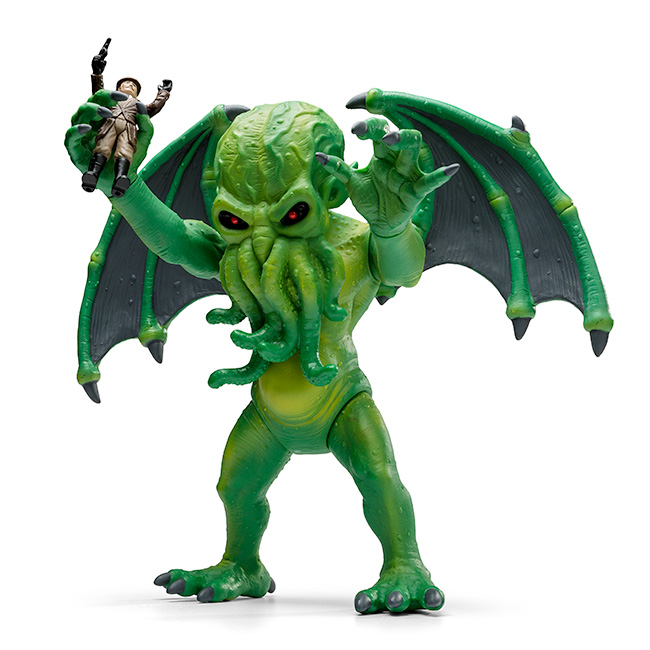
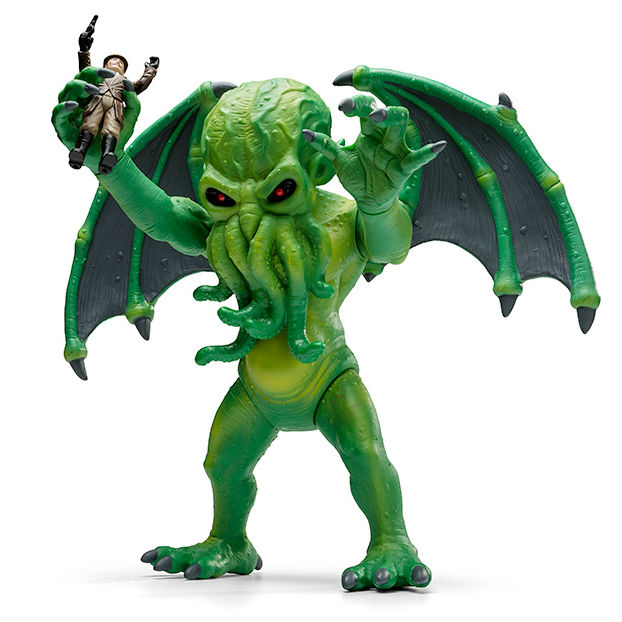
changed imgs for visual symmetry and commented out non-essential code in picture.js

Changed region(s): [[0.0611, 0.0305, 0.9775, 0.9775]]

diff --git a/js/picture.js b/js/picture.js
@@ -23,9 +23,9 @@ var imageObject = [];
 var globalClicks = 0;
 
 
-var randomValue1 = 0;
-var randomValue2 = 0;
-var randomValue3 = 0;
+// var randomValue1 = 0;
+// var randomValue2 = 0;
+// var randomValue3 = 0;
 
 var Product = function (productName, filePath) {
   this.productName = productName;
@@ -40,7 +40,7 @@ var Product = function (productName, filePath) {
     console.log(this.productName + ' now has ' + this.percentClicked + ' percent');
     }
 }
-
+//creates all of the objects and pushes them to the imageObject array
 var  createObject = function() {
   for (var i = 0; i < images.length; i++) {
     imageObject.push(new Product(images[i][0], images[i][1]));
@@ -51,13 +51,12 @@ createObject();
 function getRandomNum() {
     return Math.floor(Math.random() * (images.length));
 }
-
-
+//might want to move these to the top of the js file
 var randomValue1 = getRandomNum();
 var randomValue2 = getRandomNum();
 var randomValue3 = getRandomNum();
 
-var ensureRandom = function() {
+function ensureRandom ()  {
 do {
   randomValue1 = getRandomNum();
 }
@@ -68,28 +67,27 @@ do {
 }
 while(randomValue2 === randomValue3 || randomValue3 === randomValue1);
 }
+
 ensureRandom();
 
-console.log(imageObject[randomValue1].filePath);
-//
+// console.log(imageObject[randomValue1].filePath);
+//append the image to the articles
 var imgOne = document.getElementById('imgOne');
 imgOne.innerHTML = '<img src=' + imageObject[randomValue1].filePath + '>';
-// // // create the rest of the images
+
 var imgTwo = document.getElementById('imgTwo');
 imgTwo.innerHTML = "<img src=" + imageObject[randomValue2].filePath + ">";
 
 var imgThree = document.getElementById('imgThree');
 imgThree.innerHTML = "<img src=" + imageObject[randomValue3].filePath + ">";
-// //
-//
-// create event listender
+
+// create event listender for 1st click
 imgOne.addEventListener('click', clickOnFirst);
-//
-//
-// create an event handler
+
+// create an event handler for 1st click
 function clickOnFirst () {
   globalClicks += 1;
-  console.log(globalClicks);
+  // console.log(globalClicks);
   //see how often an image is displayed
   imageObject[randomValue1].timesDisplayed += 1;
   imageObject[randomValue2].timesDisplayed += 1;
@@ -104,27 +102,28 @@ function clickOnFirst () {
   randomValue1 = getRandomNum();
   randomValue2 = getRandomNum();
   randomValue3 = getRandomNum();
-  do {
-    randomValue1 = getRandomNum();
-  }
-  while(randomValue1 === randomValue2);
-
-  do {
-      randomValue3 = getRandomNum();
-  }
-  while(randomValue2 === randomValue3 || randomValue3 === randomValue1);
+  // do {
+  //   randomValue1 = getRandomNum();
+  // }
+  // while(randomValue1 === randomValue2);
+  //
+  // do {
+  //     randomValue3 = getRandomNum();
+  // }
+  // while(randomValue2 === randomValue3 || randomValue3 === randomValue1);
 
 
   ensureRandom();
 
-  var imgOne = document.getElementById('imgOne');
+  // var imgOne = document.getElementById('imgOne');
   imgOne.innerHTML = '<img src=' + imageObject[randomValue1].filePath + '>';
 
-  var imgTwo = document.getElementById('imgTwo');
+  // var imgTwo = document.getElementById('imgTwo');
   imgTwo.innerHTML = "<img src=" + imageObject[randomValue2].filePath + ">";
 
-  var imgThree = document.getElementById('imgThree');
+  // var imgThree = document.getElementById('imgThree');
   imgThree.innerHTML = "<img src=" + imageObject[randomValue3].filePath + ">";
+
   resultsButton();
 }
 
@@ -144,7 +143,7 @@ imgTwo.addEventListener('click', clickOnSecond);
 function clickOnSecond (event) {
   // console.log(event)
   globalClicks += 1;
-  console.log(globalClicks);
+  // console.log(globalClicks);
 
   //see how often an image is displayed
   imageObject[randomValue1].timesDisplayed += 1;
@@ -160,25 +159,25 @@ function clickOnSecond (event) {
   randomValue1 = getRandomNum();
   randomValue2 = getRandomNum();
   randomValue3 = getRandomNum();
-  do {
-    randomValue1 = getRandomNum();
-  }
-  while(randomValue1 === randomValue2);
-
-  do {
-      randomValue3 = getRandomNum();
-  }
-  while(randomValue2 === randomValue3 || randomValue3 === randomValue1);
+  // do {
+  //   randomValue1 = getRandomNum();
+  // }
+  // while(randomValue1 === randomValue2);
+  //
+  // do {
+  //     randomValue3 = getRandomNum();
+  // }
+  // while(randomValue2 === randomValue3 || randomValue3 === randomValue1);
 
   ensureRandom();
 
-  var imgOne = document.getElementById('imgOne');
+  // var imgOne = document.getElementById('imgOne');
   imgOne.innerHTML = '<img src=' + imageObject[randomValue1].filePath + '>';
 
-  var imgTwo = document.getElementById('imgTwo');
+  // var imgTwo = document.getElementById('imgTwo');
   imgTwo.innerHTML = "<img src=" + imageObject[randomValue2].filePath + ">";
 
-  var imgThree = document.getElementById('imgThree');
+  // var imgThree = document.getElementById('imgThree');
   imgThree.innerHTML = "<img src=" + imageObject[randomValue3].filePath + ">";
 
 resultsButton();
@@ -190,7 +189,7 @@ imgThree.addEventListener('click', clickOnThird);
 // create an event handler
 function clickOnThird () {
   globalClicks += 1;
-  console.log(globalClicks);
+  // console.log(globalClicks);
   //see how often an image is displayed
   imageObject[randomValue1].timesDisplayed += 1;
   imageObject[randomValue2].timesDisplayed += 1;
@@ -205,26 +204,27 @@ function clickOnThird () {
   randomValue1 = getRandomNum();
   randomValue2 = getRandomNum();
   randomValue3 = getRandomNum();
-  do {
-    randomValue1 = getRandomNum();
-  }
-  while(randomValue1 === randomValue2);
-
-  do {
-      randomValue3 = getRandomNum();
-  }
-  while(randomValue2 === randomValue3 || randomValue3 === randomValue1);
+  // do {
+  //   randomValue1 = getRandomNum();
+  // }
+  // while(randomValue1 === randomValue2);
+  //
+  // do {
+  //     randomValue3 = getRandomNum();
+  // }
+  // while(randomValue2 === randomValue3 || randomValue3 === randomValue1);
 
   ensureRandom();
 
-  var imgOne = document.getElementById('imgOne');
+  // var imgOne = document.getElementById('imgOne');
   imgOne.innerHTML = '<img src=' + imageObject[randomValue1].filePath + '>';
 
-  var imgTwo = document.getElementById('imgTwo');
+  // var imgTwo = document.getElementById('imgTwo');
   imgTwo.innerHTML = "<img src=" + imageObject[randomValue2].filePath + ">";
 
-  var imgThree = document.getElementById('imgThree');
+  // var imgThree = document.getElementById('imgThree');
   imgThree.innerHTML = "<img src=" + imageObject[randomValue3].filePath + ">";
+
 resultsButton();
 }
 
@@ -236,6 +236,7 @@ function resultsButton() {
         document.getElementById('resulting').style.visibility = 'visible';
         }
       }
+
   resultsButton();
 
 //render list function
@@ -282,6 +283,7 @@ var data = {
 
     ]
 };
+
 function populateChart () {
   for (var i = 0; i < imageObject.length; i++) {
      data.datasets[0].data.push(imageObject[i].percentClicked);

diff --git a/css/style.css b/css/style.css
@@ -1,5 +1,7 @@
 /* Style for index.html */
-
+/* mint green: #C6E7CA
+dark plum:  #281324
+*/
 
 section.pick {
   display: flex;
@@ -34,13 +36,15 @@ h2 {
 }
 p {
   font-family: Tahoma, sans-serif;
+  width: 50%;
+  height: auto;
 }
 #bus {
   width: 60%;
   height: 60%;
   border-radius: 15px;
-  padding-right: 7%;
-  background-color: white;
+  margin-left: 7%;
+  background-color: #C6E7CA;
   box-shadow:0px 0px 20px #281324;
 }
 header {
@@ -76,6 +80,7 @@ section.title {
   box-shadow:0px 0px 10px #281324;
 }
 body {
+  background-color: #C6E7CA;
   display: flex;
   flex-direction: column;
   justify-content: center;

diff --git a/index.html b/index.html
@@ -33,7 +33,7 @@
     </section>
     <button id="resulting" type="button">Results</button>
     <section class="view">
-      <table id='dataTable'></table>
+      <!-- <table id='dataTable'></table> -->
       <canvas id="chartFun" width="600" height="400"></canvas>
     </section>
     <script src="chart/chart.js"></script>
